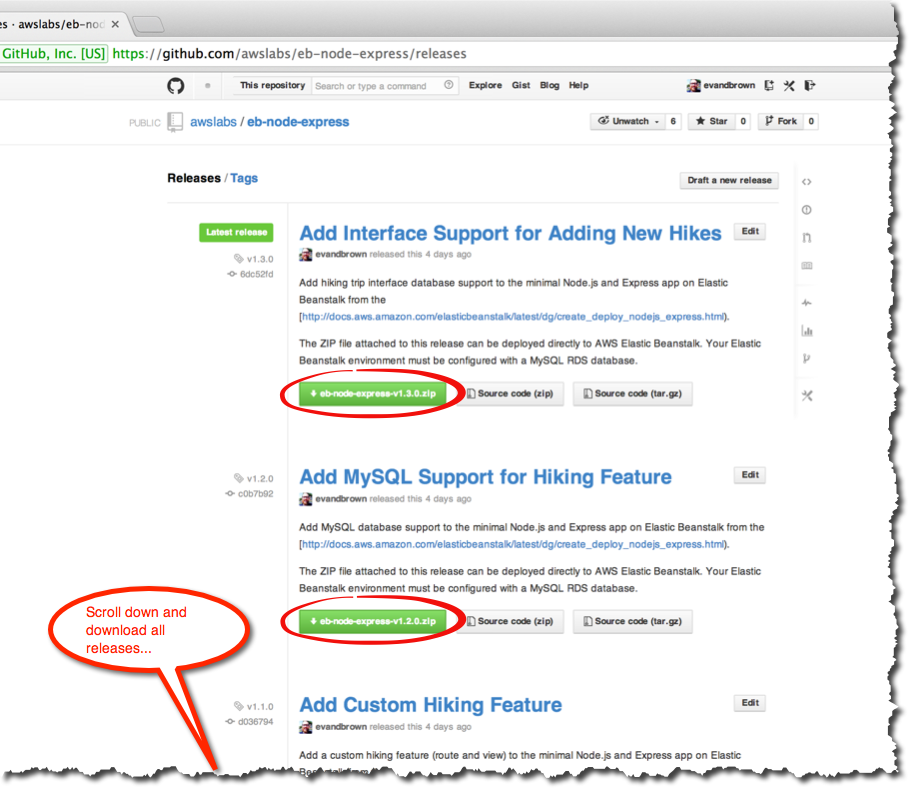
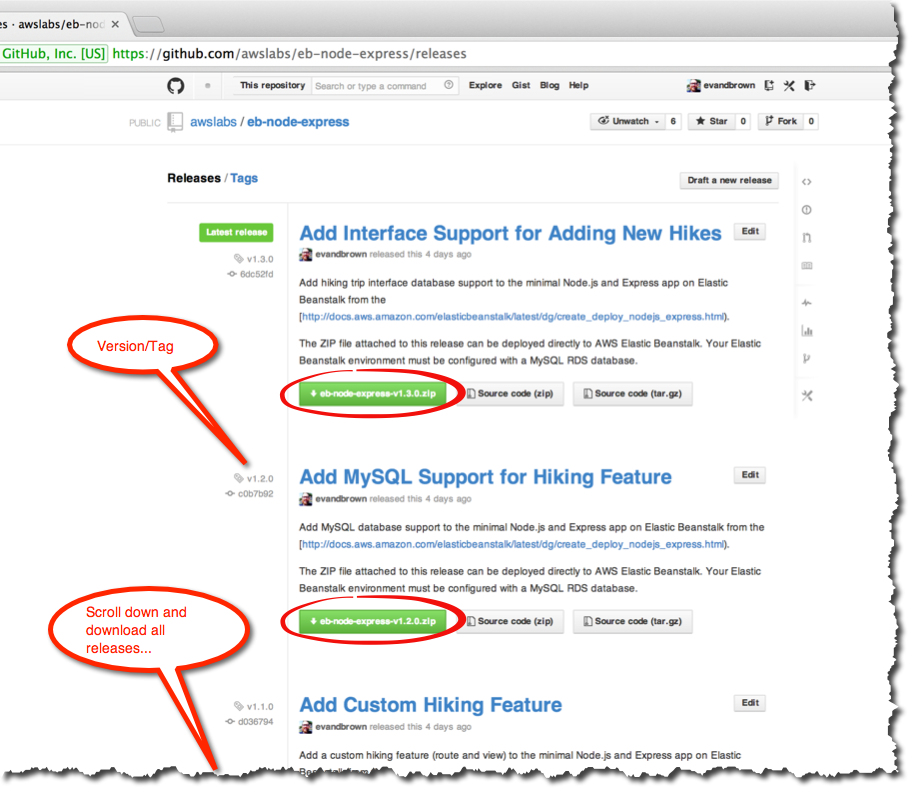
Updated instructions

Changed region(s): [[0.0615, 0.3959, 0.2769, 0.6091]]

diff --git a/deploy-app-version.md b/deploy-app-version.md
@@ -15,15 +15,6 @@ Before you can deploy a new application version, you first have to upload it to 
 2. Click Upload, enter a Version Label, choose the first version release (v1.0.0) you downloaded previously, and click Upload:
 	
 	![](img/en/step_upload-new-version.png)
-	
-**For details about the application version you are uploading, view the verion's corresponding release notes on its GitHub Releases page:**
-
-|         |   |
-|:-------------:| ------------- 
-| ![Node.js](img/node_logo.png) |  [Releases](http://github.com/awslabs/eb-node-express/releases) |
-| ![PHP](img/php-logo.png)   | [Releases](http://github.com/awslabs/eb-php-symfony2/releases) |
-| ![Python](img/python-logo.png) | [Releases](http://github.com/awslabs/eb-python-flask/releases) |
-| ![Ruby](img/ruby-logo.png) | [Releases](http://github.com/awslabs/eb-ruby-rails/releases)
 
 ### Deploy New Version
 
@@ -42,8 +33,20 @@ Now that you've uploaded a new application version, you can deploy it to your en
 	![](img/en/step_monitor-app-status.png)
 	
 4. Open your environment's URL when the status returns to Green
+
+### Use New Version
+
+Refer to the release notes for the app/version that you just deployed for details on what's new with that release and how to use it:
+
+|         |   |
+|:-------------:| ------------- 
+| ![Node.js](img/node_logo.png) |  [Release Notes](http://github.com/awslabs/eb-node-express/releases) |
+| ![PHP](img/php-logo.png)   | [Release Notes](http://github.com/awslabs/eb-php-cakephp/releases) |
+| ![Python](img/python-logo.png) | [Release Notes](http://github.com/awslabs/eb-python-flask/releases) |
+| ![Ruby](img/ruby-logo.png) | [Release Notes](http://github.com/awslabs/eb-ruby-rails/releases)
 	
 ### Repeat
+
 Repeat the above steps to upload and deploy the additional (e.g., v1.1.0, v1.2.0, etc) application versions.
 
 ## Congratulations!

diff --git a/get-new-app-versions.md b/get-new-app-versions.md
@@ -9,7 +9,7 @@ Choose the language you selected when you chose the Platform for your Elastic Be
 |         | | 
 |:-------------:| ------------- |
 | ![Node.js](img/node_logo.png)      | [http://github.com/awslabs/eb-node-express](http://github.com/awslabs/eb-node-express) |
-| ![PHP](img/php-logo.png)    |   [http://github.com/awslabs/eb-php-symfony2](http://github.com/awslabs/eb-php-symfony2) |
+| ![PHP](img/php-logo.png)    |   [http://github.com/awslabs/eb-php-cakephp](http://github.com/awslabs/eb-php-cakephp) |
 | ![Python](img/python-logo.png) |    [http://github.com/awslabs/eb-python-flask](http://github.com/awslabs/eb-python-flask) |
 | ![Ruby](img/ruby-logo.png) |    [http://github.com/awslabs/eb-ruby-rails](http://github.com/awslabs/eb-ruby-rails) |
 
